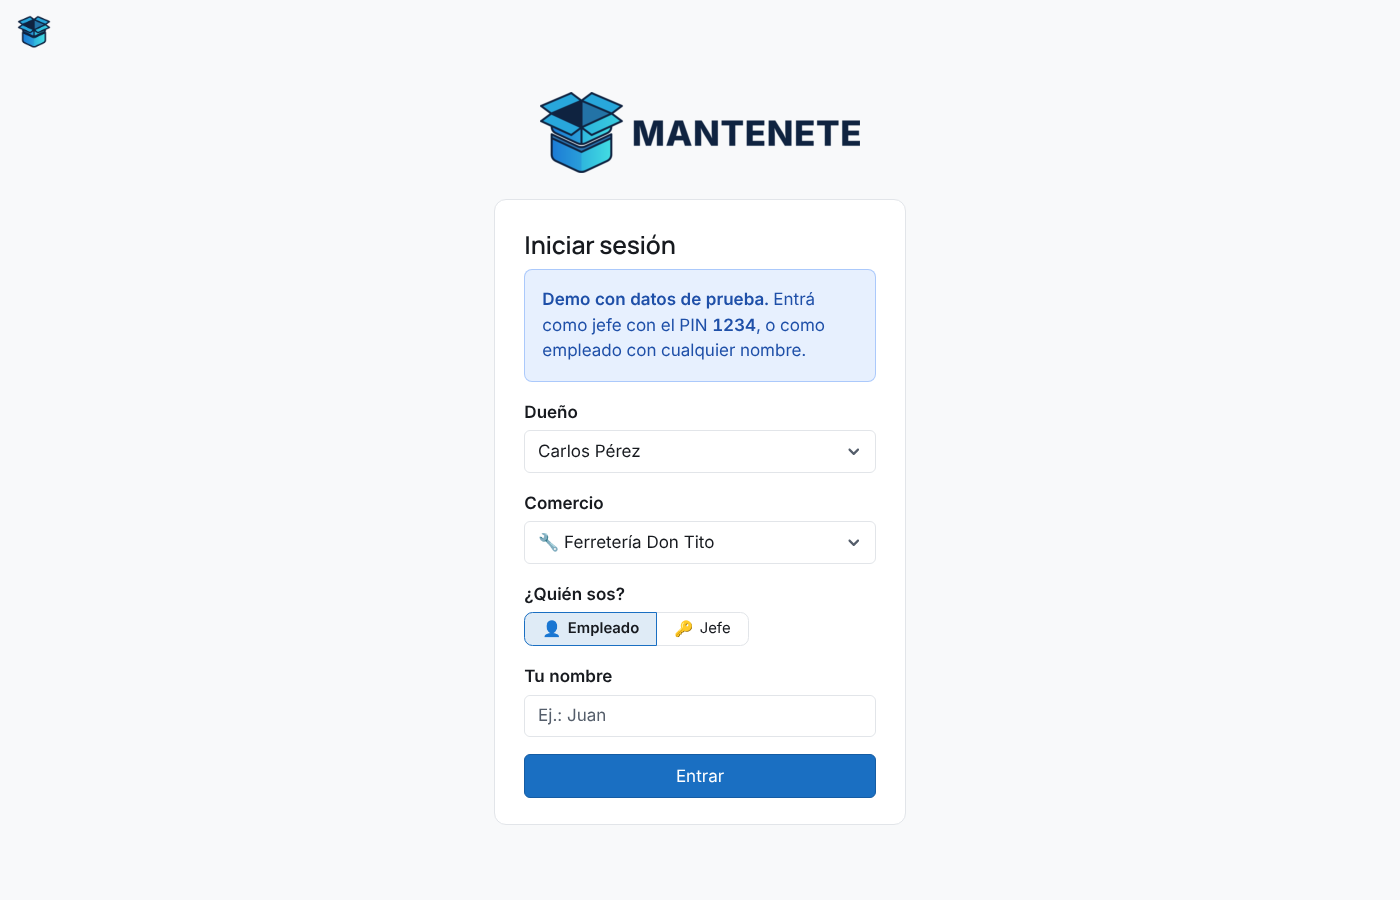
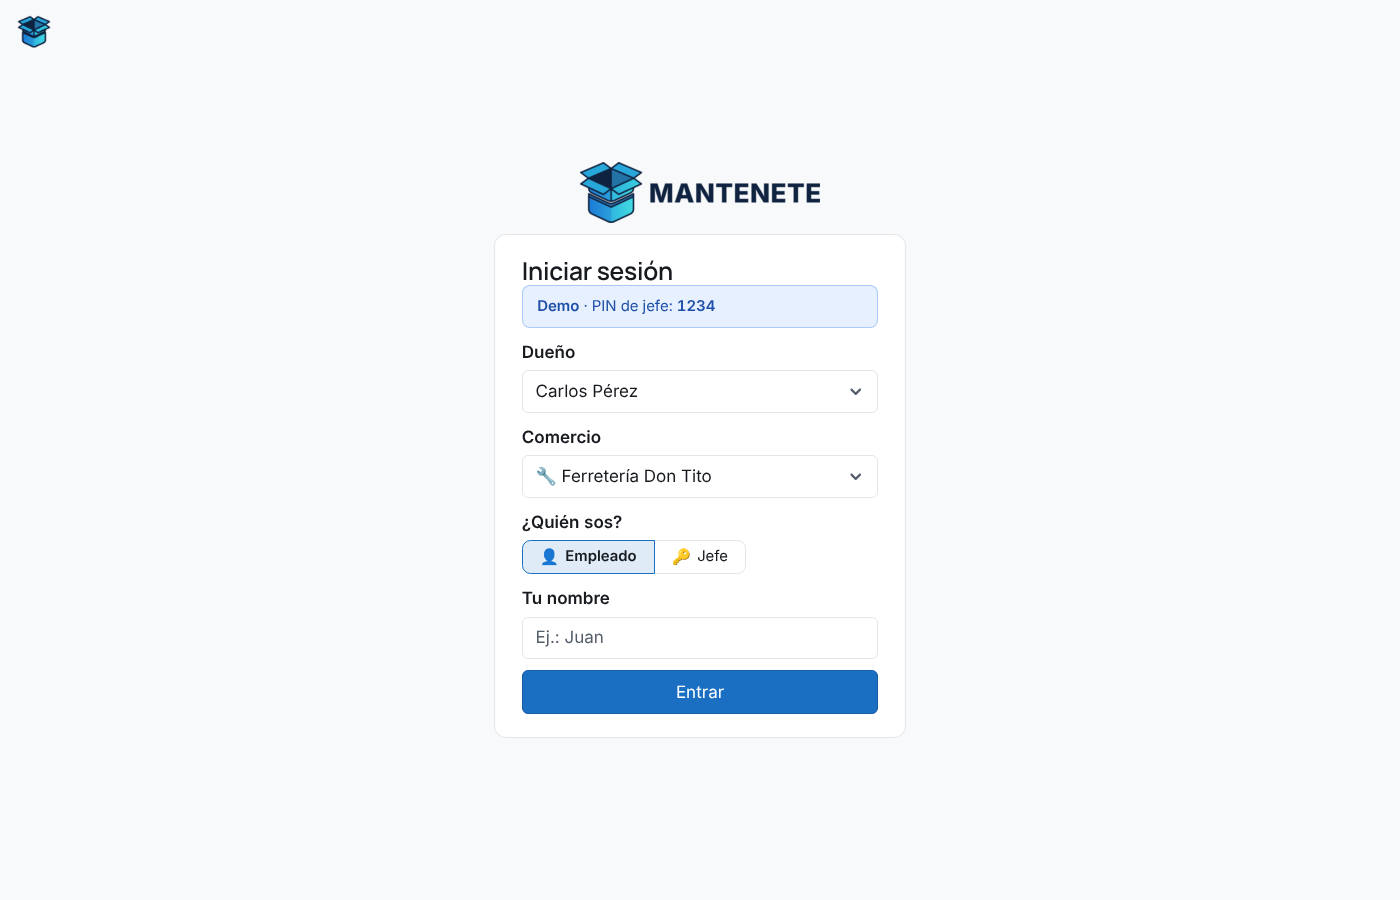
Ingreso: entra entero en la pantalla de una notebook, sin scroll
- Logo un poco más chico, aviso de la demo en una línea y casilleros más juntos.
- La ayuda de "¿Te olvidaste el PIN?" pasa al "?" del casillero PIN (en la demo no aparece).
- Sin el espacio que dejaban los estilos invisibles arriba del logo.
- Captura del ingreso del README actualizada.

Claude-Session: https://claude.ai/code/session_01GqLAFJJf79yP82BEKdhkRn

Changed region(s): [[0.3686, 0.0933, 0.645, 0.9022], [0.5836, 0.4978, 0.6143, 0.5289]]

diff --git a/ingreso.py b/ingreso.py
@@ -21,19 +21,19 @@ def pantalla_ingreso():
     """Se muestra en lugar de cualquier pantalla mientras nadie haya entrado.
 
     Como en Supabase: el logo grande arriba y, abajo, una tarjeta angosta y centrada con el formulario
-    (estilos en comun.ESTILOS, "Pantalla de ingreso"). Los botones y lo elegido van con el azul del logo."""
+    (estilos en comun.ESTILOS, "Pantalla de ingreso"). Los botones y lo elegido van con el azul del logo.
+    Todo tiene que entrar en la pantalla de una notebook sin bajar con el scroll: por eso los textos son cortos."""
     _, centro, _ = st.columns([1, 1.4, 1])
     with centro:
         with st.container(key="logo_ingreso", horizontal_alignment="center"):
             if tema.logo_propio_del_tema():
-                st.image(tema.logo_propio_del_tema(), width=320)
+                st.image(tema.logo_propio_del_tema(), width=240)
             else:
                 st.title("🏪 Mini-Sistema")
         with st.container(border=True, key="tarjeta_ingreso"):
             st.header("Iniciar sesión")
             if MODO_DEMO:
-                st.info(f"**Demo con datos de prueba.** Entrá como jefe con el PIN **{PIN_DEMO}**, "
-                        "o como empleado con cualquier nombre.")
+                st.info(f"**Demo** · PIN de jefe: **{PIN_DEMO}**")
 
             duenos = op.listar_duenos()
             if duenos.empty:
@@ -96,7 +96,9 @@ def pantalla_ingreso():
                 else:
                     bloqueado_hasta = st.session_state.get("pin_bloqueado_hasta", 0)
                     with st.form("entrar_jefe", border=False):
-                        pin = st.text_input("PIN", type="password", max_chars=6)
+                        pin = st.text_input("PIN", type="password", max_chars=6, help=None if MODO_DEMO else
+                                            "¿Te olvidaste el PIN? En la carpeta del sistema corré "
+                                            "`python olvide_mi_pin.py`.")
                         if st.form_submit_button("Entrar", type="primary", width="stretch"):
                             if time.time() < bloqueado_hasta:
                                 st.error(f"Probaste muchas veces. Esperá {int(bloqueado_hasta - time.time()) + 1} segundos.")
@@ -111,4 +113,3 @@ def pantalla_ingreso():
                                     st.error(f"PIN incorrecto. Probaste {INTENTOS_MAXIMOS} veces: esperá {ESPERA_SEGUNDOS} segundos.")
                                 else:
                                     st.error("PIN incorrecto.")
-                    st.caption("¿Te olvidaste el PIN? En la carpeta del sistema corré `python olvide_mi_pin.py`.")

diff --git a/comun.py b/comun.py
@@ -189,18 +189,24 @@ ESTILOS = """<style>
    o al elegir Jefe), se baja con el scroll en vez de que el logo quede cortado arriba */
 [data-testid="stMainBlockContainer"]:has(.st-key-tarjeta_ingreso) {
     min-height: 100vh; flex-shrink: 0; display: flex; flex-direction: column; justify-content: center;
-    padding-top: 2rem; padding-bottom: 2rem;
+    padding-top: 0.75rem; padding-bottom: 0.75rem;
 }
 [data-testid="stMainBlockContainer"]:has(.st-key-tarjeta_ingreso) > [data-testid="stVerticalBlock"] { justify-content: center; }
-.st-key-logo_ingreso { margin-bottom: 0.5rem; }
+/* Los estilos invisibles de arriba no dejan su espacio (así entra todo sin scroll) */
+[data-testid="stElementContainer"]:has(~ [data-testid="stLayoutWrapper"] .st-key-tarjeta_ingreso) { display: none; }
+.st-key-logo_ingreso { margin-bottom: -0.4rem; }
 .st-key-tarjeta_ingreso {
-    max-width: 420px; width: 100%; margin: 0 auto; padding: 1.75rem 1.75rem 1.5rem !important; border-radius: 12px !important;
+    max-width: 420px; width: 100%; margin: 0 auto; padding: 1.25rem 1.6rem 1.3rem !important; border-radius: 12px !important;
+    gap: 0.65rem;  /* casilleros más juntos, para que entre todo sin scroll en una notebook */
     /* Adentro de la tarjeta, lo verde pasa a ser el azul del logo (botón Entrar, lo elegido, el borde al escribir) */
     --boton: var(--marca); --boton-borde: var(--marca-borde); --boton-texto: #FFFFFF;
     --acento: var(--marca); --acento-fuerte: var(--marca-fuerte); --texto-acento: #FFFFFF;
 }
 [data-testid="stLayoutWrapper"]:has(> .st-key-tarjeta_ingreso) { justify-content: center; }
-.stApp .st-key-tarjeta_ingreso h2 { font-size: 1.45rem !important; padding: 0 0 0.6rem !important; }
+.stApp .st-key-tarjeta_ingreso h2 { font-size: 1.45rem !important; padding: 0 0 0.3rem !important; }
+.st-key-tarjeta_ingreso [data-testid="stAlertContainer"] { padding: 0.55rem 0.85rem !important; }
+.st-key-tarjeta_ingreso [data-testid="stAlertContainer"] p { font-size: 0.88rem; }
+.st-key-tarjeta_ingreso [data-testid="stForm"] [data-testid="stVerticalBlock"] { gap: 0.65rem; }
 .st-key-tarjeta_ingreso [data-testid="stBaseButton-segmented_controlActive"] {
     background: color-mix(in srgb, var(--marca) 14%, var(--tarjeta)) !important; border-color: var(--marca) !important;
 }
